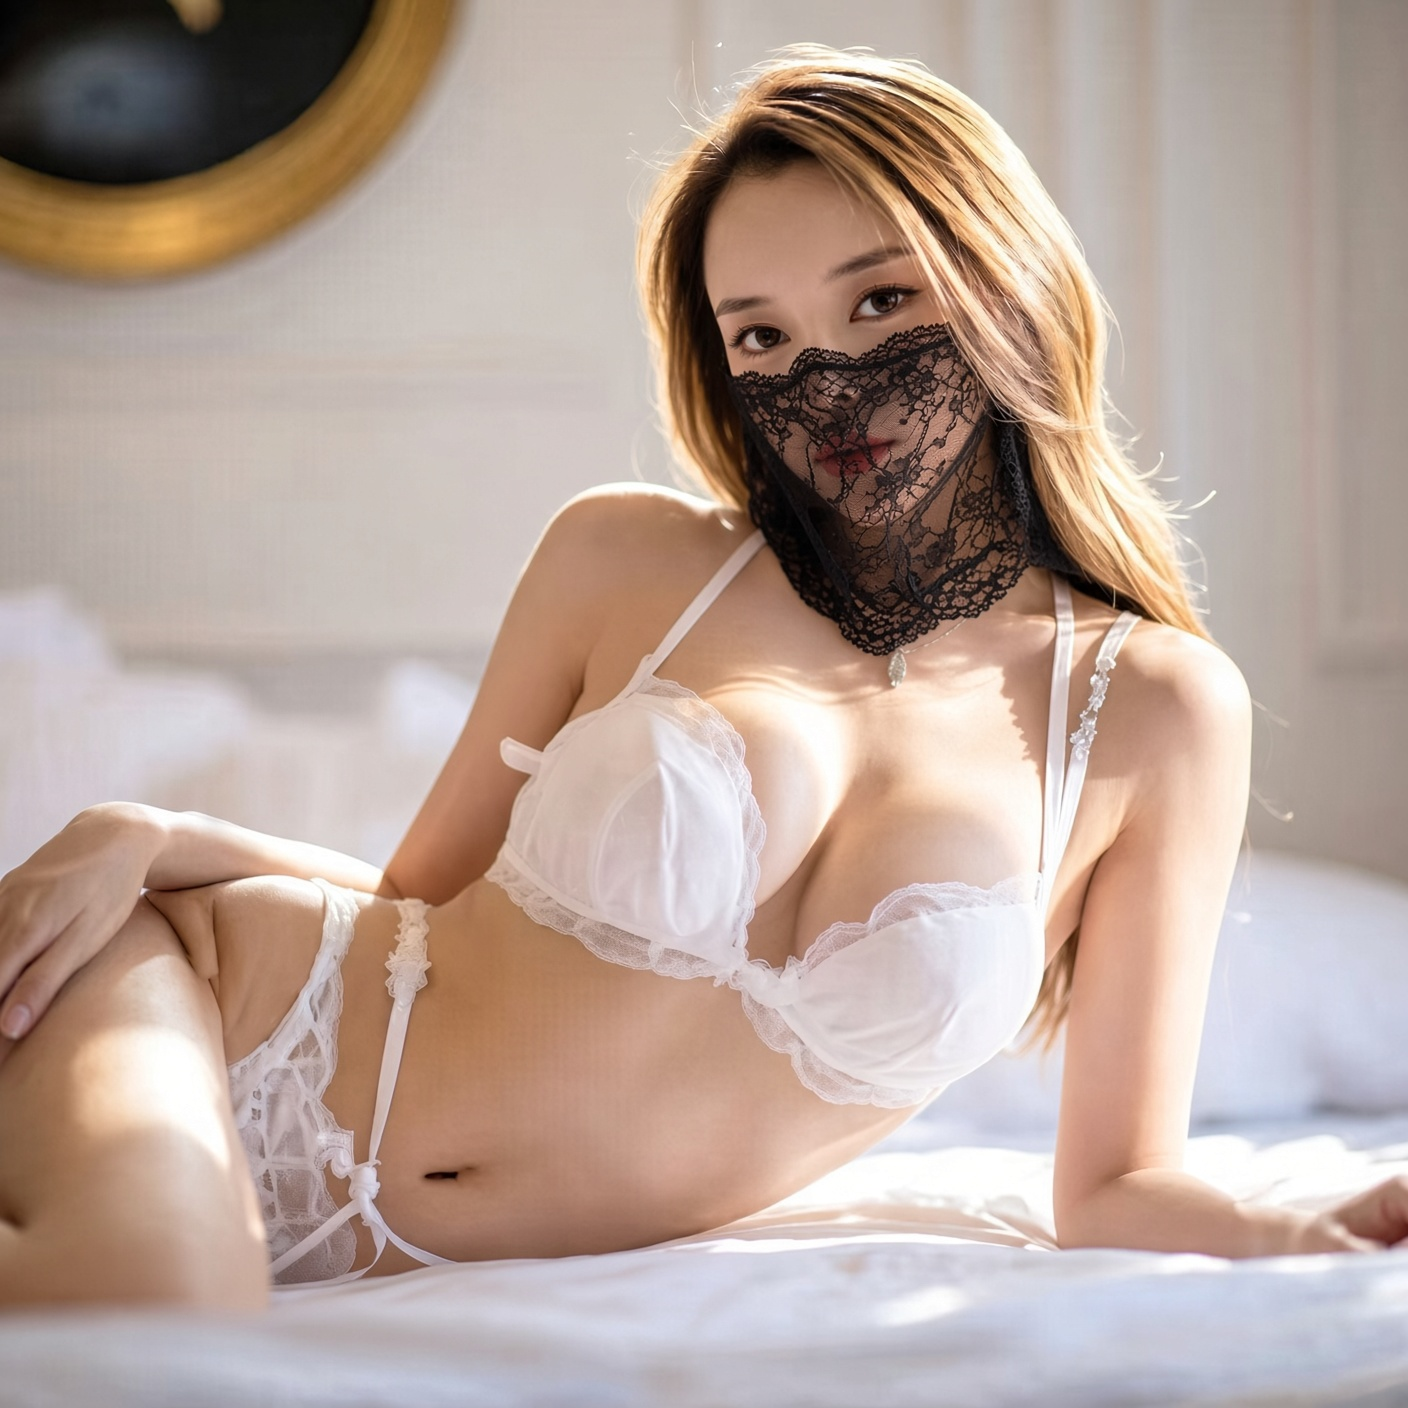
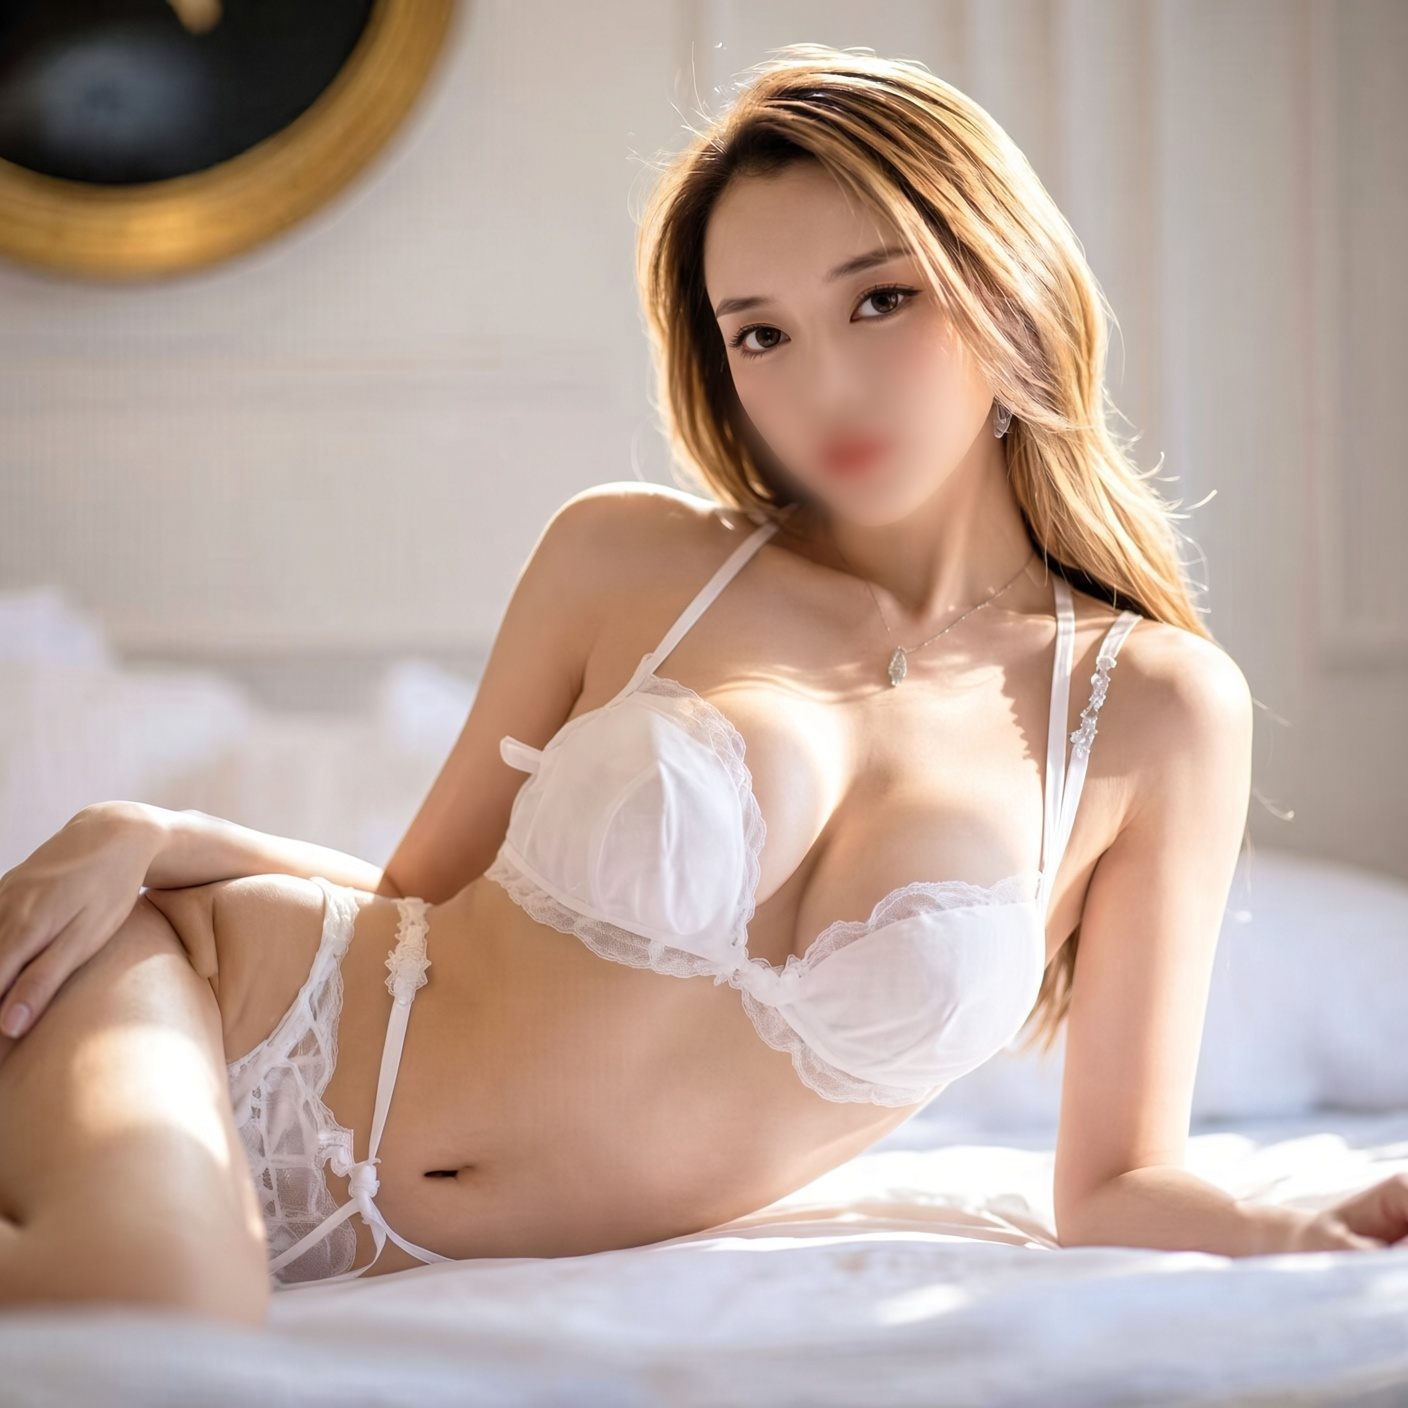
Replace website files

diff --git a/index.html b/index.html
@@ -82,9 +82,9 @@
       <article class="girl">
         <img src="images/girl-veil-white.jpg" alt="Veiled white lace" />
         <div class="girl-body">
-          <div class="tag">Veil · Japan style · soft chest</div>
+          <div class="tag">Frosted · Japan style · soft chest</div>
           <h3>White lace</h3>
-          <p>Eyes only, mouth hidden until she takes the veil off for you. Quiet voice, wet pussy. She strips the lace, sucks you sloppy, then lets you push in. One clean load — outside unless you pay for inside.</p>
+          <p>Eyes only, the rest of her face frosted until she is in the room. Quiet voice, wet pussy. She strips the lace, sucks you sloppy, then lets you push in. One clean load — outside unless you pay for inside.</p>
         </div>
       </article>
       <article class="girl">
@@ -114,9 +114,9 @@
       <article class="girl">
         <img src="images/girl-veil-lingerie.jpg" alt="Veiled lingerie" />
         <div class="girl-body">
-          <div class="tag">Veil · white lingerie · full service</div>
+          <div class="tag">Frosted · white lingerie · full service</div>
           <h3>The bed fairy</h3>
-          <p>White lace bra, garter, hips already on the sheets. Eyes stay on you while the veil covers her mouth — until you pay her to take it off and use it. BBBJ, shower, one hard fuck. No-condom and creampie are extras. Call 718-223-7425 and ask for the lingerie girl.</p>
+          <p>White lace bra, garter, hips already on the sheets. Eyes stay on you; everything below them is frosted until you are in the room. BBBJ, shower, one hard fuck. No-condom and creampie are extras. Call 718-223-7425 and ask for the lingerie girl.</p>
         </div>
       </article>
     </div>
